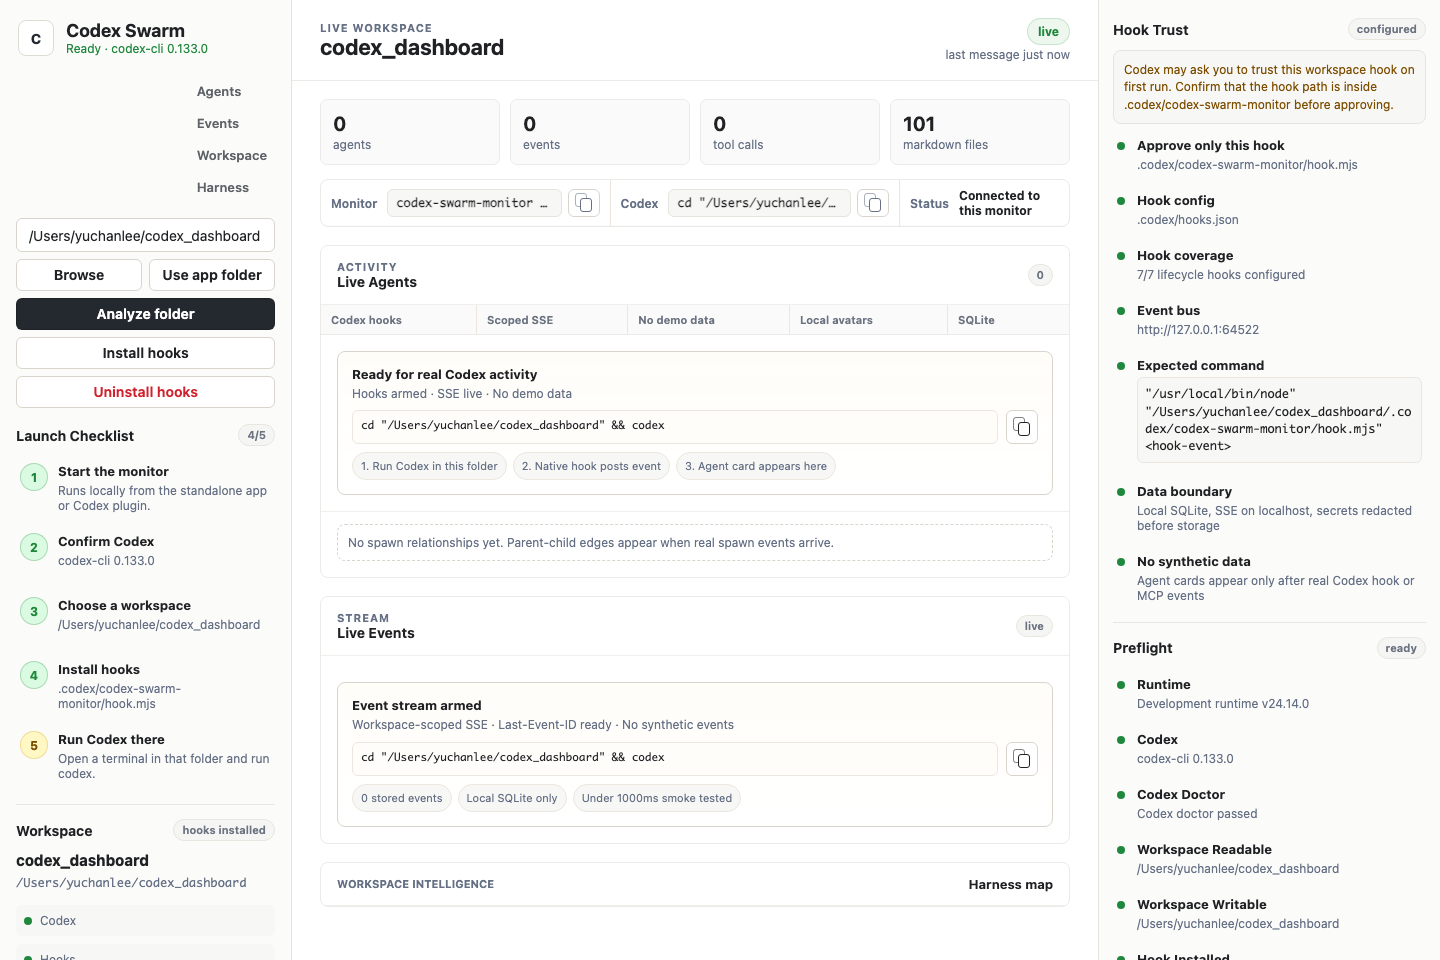
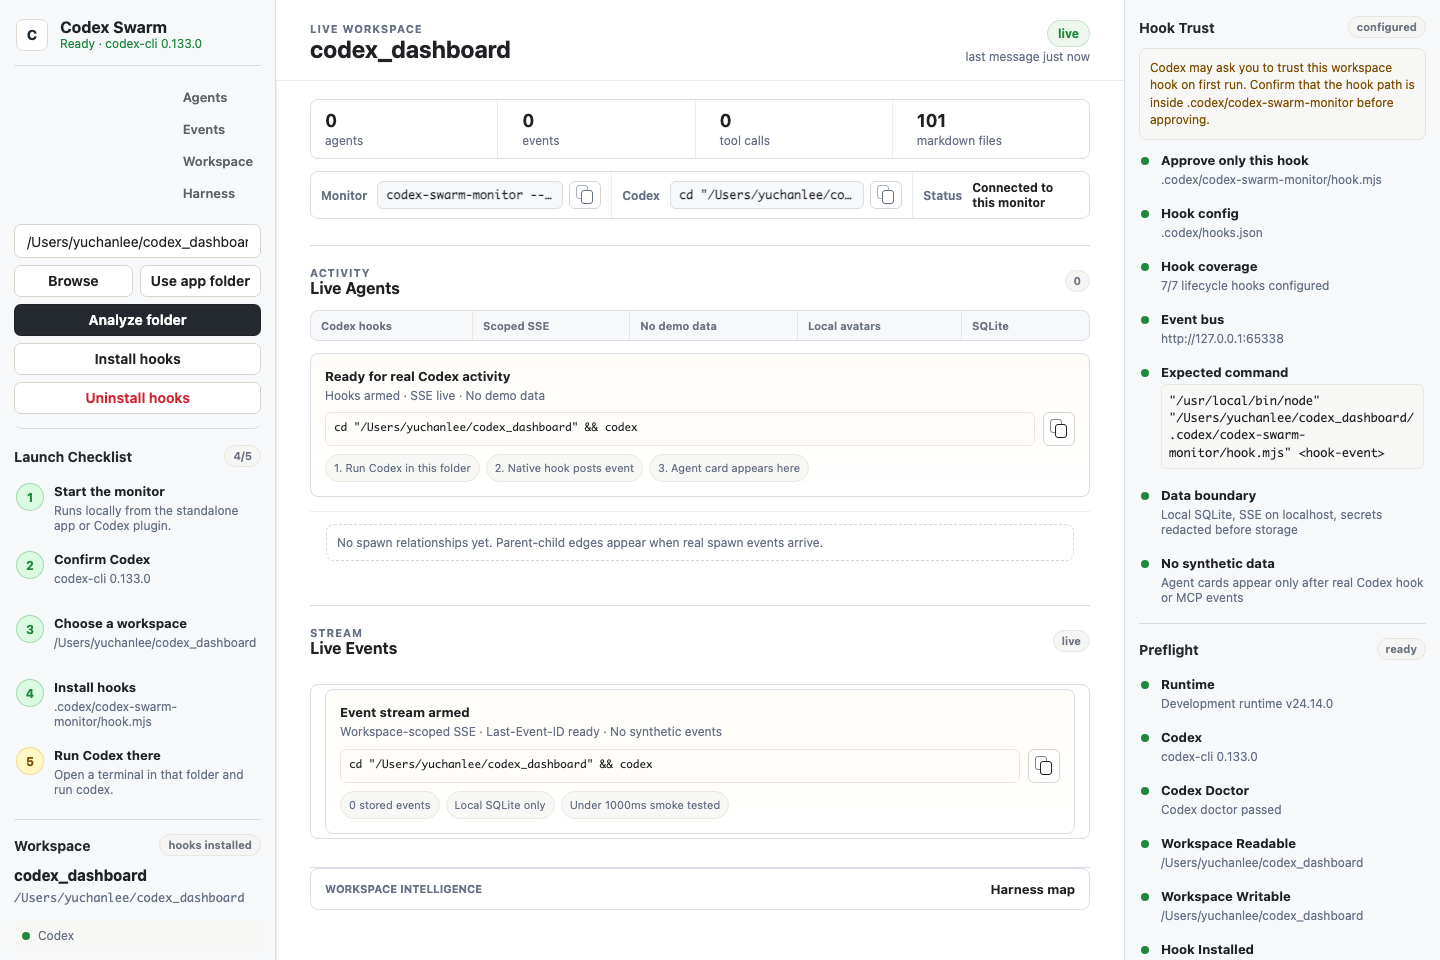
Refine production canvas UI

diff --git a/apps/ui/styles.css b/apps/ui/styles.css
@@ -2662,3 +2662,285 @@ details.canvas-panel summary {
     padding: 12px;
   }
 }
+
+/* Production canvas pass: quieter Notion/Goodnotes-inspired workspace, fewer visible boxes. */
+body {
+  background:
+    linear-gradient(180deg, rgba(255, 255, 255, 0.92), rgba(246, 248, 250, 0.96)),
+    #f6f8fa;
+}
+
+.notion-app-shell {
+  grid-template-columns: 276px minmax(0, 1fr);
+}
+
+.app-sidebar,
+.app-inspector {
+  background: #f6f8fa;
+}
+
+.app-sidebar {
+  border-right-color: #d8dee4;
+  padding: 16px 14px;
+}
+
+.app-sidebar .brand {
+  border-bottom: 1px solid #d8dee4;
+  padding-bottom: 14px;
+}
+
+.brand-mark {
+  border-radius: 7px;
+  height: 32px;
+  width: 32px;
+}
+
+.brand h1 {
+  font-size: 16px;
+}
+
+.workspace-picker {
+  border-bottom: 1px solid #d8dee4;
+  padding-bottom: 14px;
+}
+
+.workspace-picker input,
+.workspace-picker button,
+button {
+  border-radius: 7px;
+}
+
+.workspace-layout {
+  grid-template-columns: minmax(0, 1fr) 316px;
+}
+
+.app-main {
+  background: #ffffff;
+  box-shadow: inset 1px 0 0 rgba(216, 222, 228, 0.42);
+  padding: 0 34px 56px;
+}
+
+.app-main > .status-strip,
+.app-main > .launch-strip,
+.app-main > .canvas-panel {
+  margin-left: auto;
+  margin-right: auto;
+  max-width: 1180px;
+}
+
+.app-main-header {
+  background: rgba(255, 255, 255, 0.94);
+  margin: 0 -34px 18px;
+  padding: 20px 34px 16px;
+}
+
+.app-main-header > div:first-child {
+  margin-left: max(0px, calc((100% - 1180px) / 2));
+}
+
+.app-main-header .stream-status-card {
+  margin-right: max(0px, calc((100% - 1180px) / 2));
+}
+
+.app-main-header h2 {
+  font-size: 24px;
+  letter-spacing: 0;
+}
+
+.status-strip {
+  background: #ffffff;
+  border: 1px solid #d8dee4;
+  border-radius: 8px;
+  display: flex;
+  margin-bottom: 12px;
+  overflow: hidden;
+  padding: 0;
+}
+
+.status-strip div {
+  background: transparent;
+  border: 0;
+  border-radius: 0;
+  border-right: 1px solid #eaeef2;
+  flex: 1 1 0;
+  min-height: 54px;
+  padding: 10px 14px;
+}
+
+.status-strip div:last-child {
+  border-right: 0;
+}
+
+.status-strip strong {
+  font-size: 18px;
+}
+
+.launch-strip {
+  border-color: #d8dee4;
+  box-shadow: none;
+  margin-bottom: 26px;
+}
+
+.launch-strip div {
+  border-right-color: #eaeef2;
+}
+
+.launch-strip code {
+  background: #f6f8fa;
+  border-color: #d8dee4;
+}
+
+.canvas-panel {
+  border: 0;
+  border-radius: 0;
+  border-top: 1px solid #d8dee4;
+  margin-bottom: 0;
+}
+
+.canvas-panel + .canvas-panel,
+details.canvas-panel {
+  margin-top: 28px;
+}
+
+.canvas-toolbar {
+  border-bottom: 0;
+  min-height: 64px;
+  padding: 18px 0 12px;
+}
+
+.canvas-toolbar h2 {
+  font-size: 16px;
+}
+
+.canvas-proof-strip {
+  background: #f6f8fa;
+  border: 1px solid #d8dee4;
+  border-radius: 8px;
+  margin-bottom: 12px;
+  overflow: hidden;
+}
+
+.agent-grid {
+  gap: 10px;
+  padding: 0 0 14px;
+}
+
+.agent-card {
+  border-color: #d8dee4;
+  border-radius: 8px;
+  min-height: 148px;
+}
+
+.agent-card:hover,
+.event-row:hover {
+  background: #f6f8fa;
+}
+
+.events-panel .event-log {
+  border: 1px solid #d8dee4;
+  border-radius: 8px;
+  max-height: 360px;
+  padding: 4px 14px;
+}
+
+.event-row {
+  min-height: 52px;
+}
+
+details.canvas-panel summary {
+  border: 1px solid #d8dee4;
+  border-radius: 8px;
+  margin-bottom: 12px;
+  padding: 12px 14px;
+}
+
+details.canvas-panel[open] summary {
+  background: #f6f8fa;
+}
+
+.harness-canvas {
+  background:
+    repeating-linear-gradient(0deg, rgba(208, 215, 222, 0.22) 0 1px, transparent 1px 36px),
+    repeating-linear-gradient(90deg, rgba(208, 215, 222, 0.18) 0 1px, transparent 1px 36px),
+    #ffffff;
+  border: 1px solid #d8dee4;
+  border-radius: 8px;
+}
+
+.repo-context {
+  border: 1px solid #d8dee4;
+  border-radius: 8px;
+  margin-bottom: 12px;
+}
+
+.app-inspector {
+  border-left-color: #d8dee4;
+  padding: 16px 14px 28px;
+}
+
+.app-inspector .panel + .panel,
+.app-sidebar .panel + .panel,
+.app-sidebar #lifecycle-strip {
+  border-top-color: #d8dee4;
+}
+
+.quickstart-row,
+.trust-row,
+.doctor-row,
+.ops-row,
+.pipeline-row,
+.doc-row,
+.db-row {
+  padding: 6px 2px;
+}
+
+.panel-title h2,
+details.panel summary strong {
+  color: #24292f;
+}
+
+.empty-state {
+  border-color: #d8dee4;
+}
+
+@media (max-width: 1180px) {
+  .notion-app-shell,
+  .workspace-layout {
+    grid-template-columns: 1fr;
+  }
+
+  .app-main {
+    box-shadow: none;
+  }
+
+  .app-main-header > div:first-child,
+  .app-main-header .stream-status-card {
+    margin-left: 0;
+    margin-right: 0;
+  }
+}
+
+@media (max-width: 720px) {
+  .app-main {
+    padding-left: 14px;
+    padding-right: 14px;
+  }
+
+  .app-main-header {
+    margin-left: -14px;
+    margin-right: -14px;
+  }
+
+  .status-strip {
+    display: grid;
+  }
+
+  .status-strip div {
+    border-right: 0;
+    border-bottom: 1px solid #eaeef2;
+  }
+
+  .status-strip div:last-child {
+    border-bottom: 0;
+  }
+}

diff --git a/apps/ui/index.html b/apps/ui/index.html
@@ -196,13 +196,6 @@
             </form>
           </details>
 
-          <!-- Retained for older smoke selectors; the active database panel is the details block above. -->
-          <section class="panel">
-            <div class="panel-title">
-              <h2>Local</h2>
-              <span>SQLite only</span>
-            </div>
-          </section>
         </aside>
       </section>
     </main>